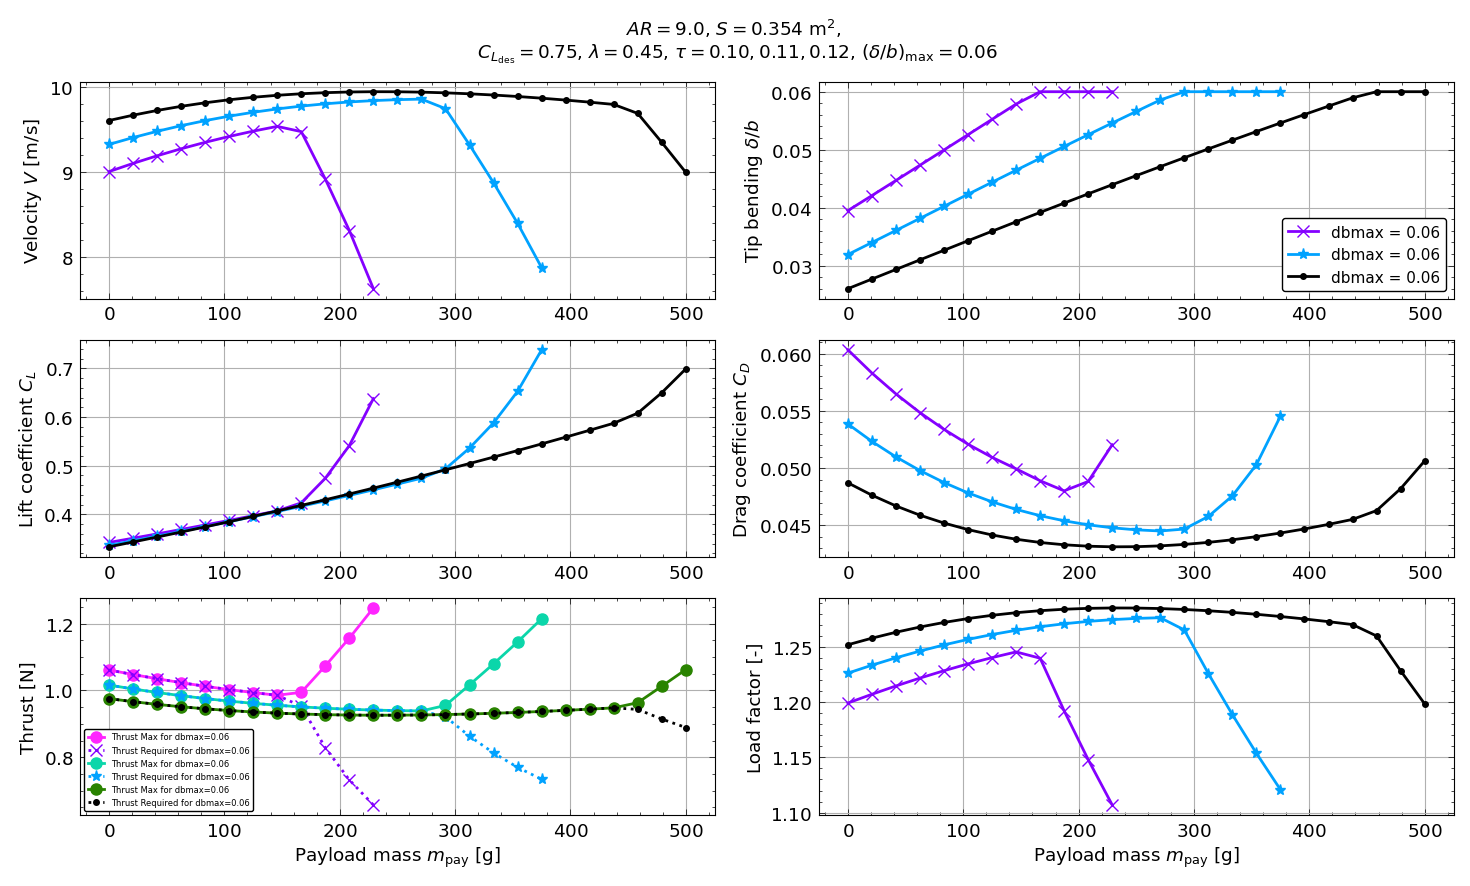
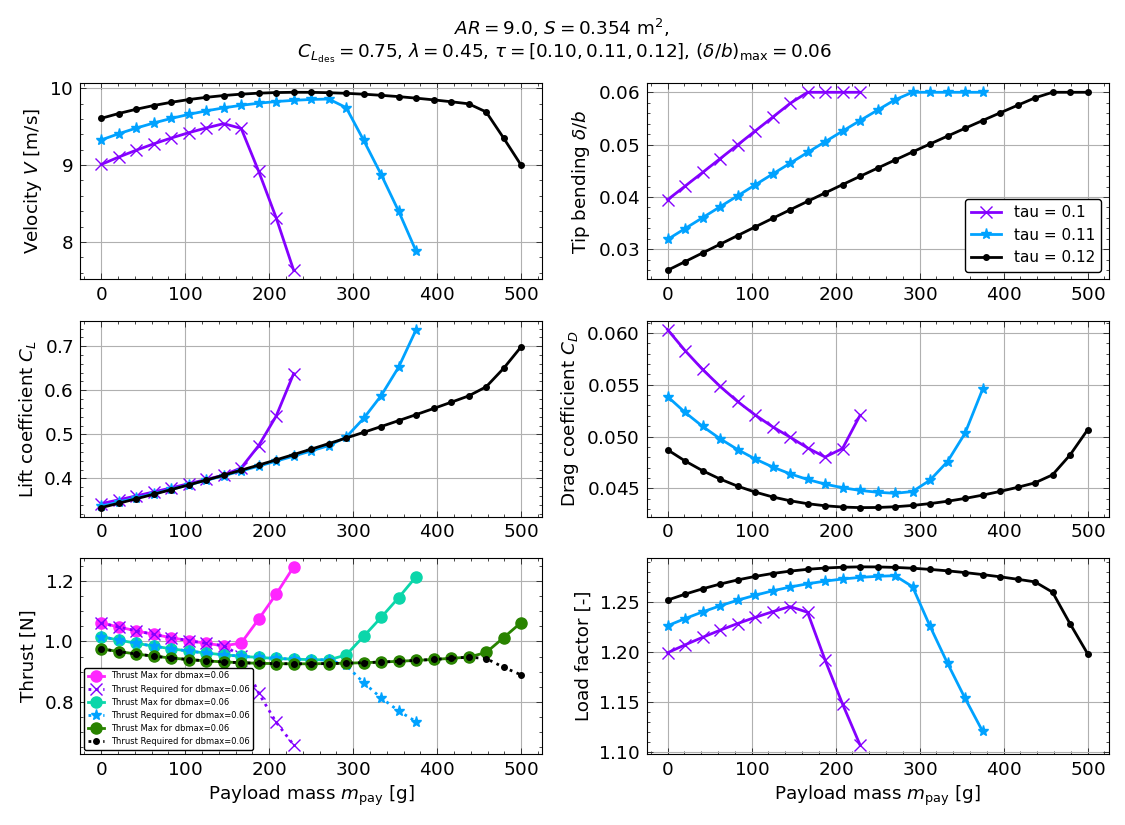
addes some plots

diff --git a/UEFC1_codes/DS_mpay_sweep.py b/UEFC1_codes/DS_mpay_sweep.py
@@ -7,7 +7,7 @@ import matplotlib.pyplot as plt
 import matplotlib.cm as cm
 plt.style.use(os.path.join(os.path.dirname(__file__), "uefc.mplstyle"))
 
-fig, ax = plt.subplots(3, 2, figsize=(15, 11))
+fig, ax = plt.subplots(3, 2, figsize=(15*0.75, 11*0.75))
 
 # You should not need to change the values within this function
 def mpay_sweep(ax, k, aircraft: UEFC,
@@ -78,7 +78,7 @@ def mpay_sweep(ax, k, aircraft: UEFC,
         ax[0,0].set_ylabel(f"Velocity $V$ [m/s]")
 
         # Wing tip deflection
-        ax[0,1].plot(mpayout_array, db_array, marker=markers[k], color=colors[k], label = f"dbmax = {aircraft.dbmax}")
+        ax[0,1].plot(mpayout_array, db_array, marker=markers[k], color=colors[k], label = f"tau = {aircraft.tau}")
         ax[0,1].legend()
         # ax[0,1].axhline(y=aircraft.dbmax, color='r', linestyle='--')
         ax[0,1].grid(True)
@@ -112,7 +112,8 @@ def mpay_sweep(ax, k, aircraft: UEFC,
         ax[2,1].set_xlabel(f"Payload mass $m_{{\\mathrm{{pay}}}}$ [g]")
         ax[2,1].set_ylabel(f"Load factor [-]")
         # plt.title(f"$AR = {AR:.1f}$, $S = {S:.3f}$ m$^2$, \n $C_{{L_{{\\mathrm{{des}}}}}} = {aircraft.CLdes:.2f}$, $\\lambda = {aircraft.taper:.2f}$, $\\tau = {aircraft.tau:.2f}$, $(\\delta/b)_{{\\mathrm{{max}}}} = 0.06, 0.08, 0.10$")
-        suptitle = f"$AR = {AR:.1f}$, $S = {S:.3f}$ m$^2$, \n $C_{{L_{{\\mathrm{{des}}}}}} = {aircraft.CLdes:.2f}$, $\\lambda = {aircraft.taper:.2f}$, $\\tau = 0.10, 0.11, 0.12$, $(\\delta/b)_{{\\mathrm{{max}}}} = $0.06"
+        # suptitle = f"$AR = {AR:.1f}$, $S = {S:.3f}$ m$^2$, \n $C_{{L_{{\\mathrm{{des}}}}}} = {aircraft.CLdes:.2f}$, $\\lambda = {aircraft.taper:.2f}$, $\\tau = 0.10$, $(\\delta/b)_{{\\mathrm{{max}}}} = $0.06, 0.08, 0.10"
+        suptitle = f"$AR = {AR:.1f}$, $S = {S:.3f}$ m$^2$, \n $C_{{L_{{\\mathrm{{des}}}}}} = {aircraft.CLdes:.2f}$, $\\lambda = {aircraft.taper:.2f}$, $\\tau = [0.10,0.11,0.12]$, $(\\delta/b)_{{\\mathrm{{max}}}} = $0.06"
         fig.suptitle(suptitle)
         # plt.show()
     return ax, mpayout_array, obj_array, CL_array, CD_array, T_req_array, T_max_array, db_array, N_array
@@ -154,6 +155,7 @@ if __name__ == "__main__":
     for i in [0, 1, 2]:
         k = i
         aircraft.tau = [0.10, 0.11, 0.12][i]
+        # aircraft.dbmax = [0.06,0.08,0.10][i]
         print(f"################ START OF TAU = {aircraft.tau} ################")
         ax, mpay, obj, CL, CD, T_req, T_max, db, N = mpay_sweep(ax, k, aircraft,
                                                         AR, S,
@@ -161,4 +163,11 @@ if __name__ == "__main__":
                                                         mpay_end=mpay_end,
                                                         mpay_num=mpay_num,
                                                         show_plot=True)
+        # print(f"################ START OF dbmax = {aircraft.dbmax} ################")
+        # ax, mpay, obj, CL, CD, T_req, T_max, db, N = mpay_sweep(ax, k, aircraft,
+        #                                                 AR, S,
+        #                                                 mpay_start=mpay_start,
+        #                                                 mpay_end=mpay_end,
+        #                                                 mpay_num=mpay_num,
+        #                                                 show_plot=True)
 plt.show()
